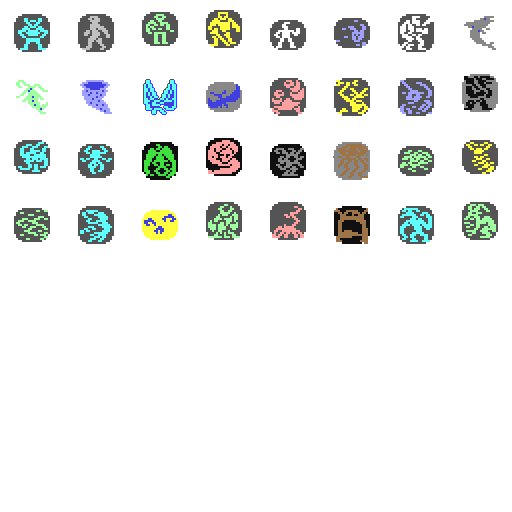
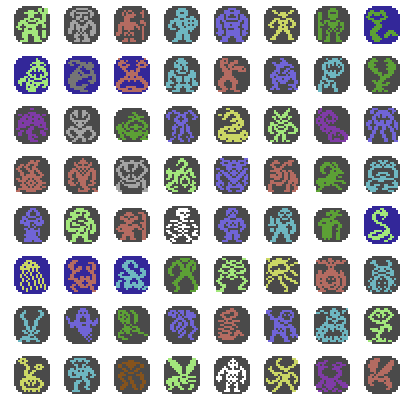
Import overworld monsters for both games.
git-svn-id: svn://192.168.0.200/Xle/trunk@349 8e2493a0-6f32-3e4d-a2e5-9abab0ebc7f0

diff --git a/Xle/Rendering/XleRenderer.cs b/Xle/Rendering/XleRenderer.cs
@@ -192,8 +192,8 @@ namespace ERY.Xle.Rendering
 		/// <summary>
 		/// Draws monsters on the outside maps.
 		/// </summary>
-		/// <param name="px">The x position of the monster, in screen coordinates.</param>
-		/// <param name="py">The y position of the monster, in screen coordinates.</param>
+		/// <param name="px">The x position of the monster, in screen pixels.</param>
+		/// <param name="py">The y position of the monster, in screen pixels.</param>
 		/// <param name="monst"></param>
 		public void DrawMonster(int px, int py, int monst)
 		{
@@ -201,19 +201,22 @@ namespace ERY.Xle.Rendering
 
 			Rectangle monstRect;
 			Rectangle destRect;
+			var size = XleCore.Data.OverworldMonsterSize;
 
-			tx = (monst % 8) * 64;
-			ty = (monst / 8) * 64;
+			tx = (monst % 8) * size.Width;
+			ty = (monst / 8) * size.Height;
 
-			monstRect = new Rectangle(tx, ty, 64, 64);
-			destRect = new Rectangle(px, py, 64, 64);
+			monstRect = new Rectangle(tx, ty, size.Width, size.Height);
+			destRect = new Rectangle(px, py, size.Width, size.Height);
 
 			if (XleCore.Factory.Monsters != null)
 				XleCore.Factory.Monsters.Draw(monstRect, destRect);
 
 		}
 
+		public Point PlayerDrawPoint { get; set; }
 		public Color PlayerColor { get; set; }
+
 		/// <summary>
 		/// Draws the player character.
 		/// </summary>
@@ -230,6 +233,7 @@ namespace ERY.Xle.Rendering
 			int width = (624 - px) / 16;
 
 			px += 11 * 16;
+			PlayerDrawPoint = new Point(px, py);
 
 			DrawCharacterSprite(px, py, XleCore.GameState.Player.FaceDirection, animating, animFrame, true, clr);
 

diff --git a/Xle/Maps/Extenders/OutsideExtender.cs b/Xle/Maps/Extenders/OutsideExtender.cs
@@ -600,10 +600,11 @@ namespace ERY.Xle.Maps.Extenders
 		private static int SelectRandomMonster(TerrainType terrain)
 		{
 			int mCount = 0;
+			var monsters = XleCore.Data.MonsterInfoList.Where(x => x.Terrain == terrain || x.Terrain == TerrainType.All);
 
-			mCount = XleCore.Data.MonsterInfoList.Count(x => x.Terrain == terrain || x.Terrain == TerrainType.All);
+			mCount = monsters.Count();
 
-			return XleCore.random.Next(mCount);
+			return (monsters.Skip(XleCore.random.Next(mCount)).First()).ID;
 		}
 
 
@@ -1214,20 +1215,8 @@ namespace ERY.Xle.Maps.Extenders
 
 		protected void SetMonsterImagePosition(Player player)
 		{
-			MapRenderer.MonsterDrawPoint.X = player.X - 1;
-			MapRenderer.MonsterDrawPoint.Y = player.Y - 1;
-
 			monstDir = (Direction)XleCore.random.Next((int)Direction.East, (int)Direction.South + 1);
-
-			switch (monstDir)
-			{
-				case Direction.East: MapRenderer.MonsterDrawPoint.X += 2; break;
-				case Direction.North: MapRenderer.MonsterDrawPoint.Y -= 2; break;
-				case Direction.West: MapRenderer.MonsterDrawPoint.X -= 2; break;
-				case Direction.South: MapRenderer.MonsterDrawPoint.Y += 2; break;
-				default:
-					throw new Exception("Invalid direction.");
-			}
+			MapRenderer.MonsterDrawDirection = monstDir;
 		}
 
 

diff --git a/Xle/Maps/Renderers/OutsideRenderer.cs b/Xle/Maps/Renderers/OutsideRenderer.cs
@@ -16,7 +16,7 @@ namespace ERY.Xle.Maps.Renderers
 		int lastAnimate = 0;
 
 		public int DisplayMonsterID = -1;
-		public Point MonsterDrawPoint;
+		public Direction MonsterDrawDirection;
 
 		/// <summary>
 		/// Gets or sets whether or not the player is in stormy water
@@ -42,14 +42,22 @@ namespace ERY.Xle.Maps.Renderers
 
 			if (DisplayMonsterID > -1)
 			{
-				Point pt = new Point(MonsterDrawPoint.X - x, MonsterDrawPoint.Y - y);
-				pt.X *= 16;
-				pt.Y *= 16;
+				Point dir = MonsterDrawDirection.ToPoint();
+				Point pos = XleCore.Renderer.PlayerDrawPoint;
 
-				pt.X += XleCore.Renderer.CharRect.X;
-				pt.Y += XleCore.Renderer.CharRect.Y;
+				pos.X -= 15;
+				pos.Y -= 9;
 
-				XleCore.Renderer.DrawMonster(pt.X, pt.Y, DisplayMonsterID);
+				if (dir.X < 0)
+					pos.X -= XleCore.Data.OverworldMonsterSize.Width;
+				else if (dir.X > 0)
+					pos.X += 35;
+				if (dir.Y < 0)
+					pos.Y -= XleCore.Data.OverworldMonsterSize.Height;
+				else if (dir.Y > 0)
+					pos.Y += 35;
+
+				XleCore.Renderer.DrawMonster(pos.X, pos.Y, DisplayMonsterID);
 			}
 		}
 		protected override int TileToDraw(int x, int y)

diff --git a/Xle/Data/XleData.cs b/Xle/Data/XleData.cs
@@ -23,6 +23,8 @@ namespace ERY.Xle.Data
 		private Dictionary<int, DungeonMonsterData> mDungeonMonsters = new Dictionary<int, DungeonMonsterData>();
 		private List<MonsterInfo> mMonsterInfo = new List<MonsterInfo>();
 
+		public Size OverworldMonsterSize { get; private set; }
+
 		public void LoadGameFile(string filename)
 		{
 			XDocument doc = XDocument.Load(filename);
@@ -42,6 +44,8 @@ namespace ERY.Xle.Data
 
 		private void LoadMonsterInfo(XElement parent)
 		{
+			OverworldMonsterSize = Size.FromString(parent.Attribute("TileSize").Value);
+
 			foreach(var node in parent.Elements())
 			{
 				MonsterInfo info = new MonsterInfo();
@@ -56,6 +60,8 @@ namespace ERY.Xle.Data
 				info.Terrain = (TerrainType)node.GetOptionalAttribute("Terrain", -1);
 				info.Vulnerability = node.GetOptionalAttribute("Vulnerability", 0);
 				info.Toxic = node.GetOptionalAttribute("Toxic", false);
+				info.IntimidateChance = node.GetOptionalAttribute("IntimidateChance", 0);
+				info.Intelligent = node.GetOptionalAttribute("Intelligent", false);
 
 				mMonsterInfo.Add(info);
 

diff --git a/Xle/DirectionHelper.cs b/Xle/DirectionHelper.cs
@@ -8,6 +8,19 @@ namespace ERY.Xle
 {
 	public static class DirectionHelper
 	{
+		public static Point ToPoint(this Direction dir)
+		{
+			switch(dir)
+			{
+				case Direction.West: return new Point(-1, 0);
+				case Direction.East: return new Point(1, 0);
+				case Direction.North: return new Point(0, -1);
+				case Direction.South: return new Point(0, 1);
+
+				default:
+					return Point.Empty;
+			}
+		}
 		public static Direction ToDirection(this Point point)
 		{
 			if (point.X < 0 && point.Y == 0) return Direction.West;

diff --git a/LegendOfBlacksilver/LobFactory.cs b/LegendOfBlacksilver/LobFactory.cs
@@ -58,6 +58,7 @@ namespace ERY.Xle.LoB
 			Font.StringTransformer = StringTransformer.ToUpper;
 
 			Character = new Surface("character.png");
+			Monsters = new Surface("OverworldMonsters.png");
 
 			Lob3DSurfaces.LoadSurfaces();
 
